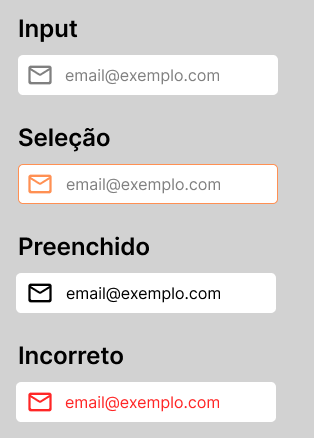
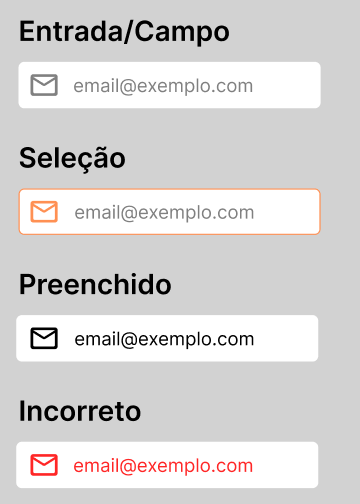
Review: correções etapas 2 e 3

diff --git a/docs/analise_requisitos/guia_estilo.md b/docs/analise_requisitos/guia_estilo.md
@@ -55,7 +55,7 @@ Figura 1 - Página inicial DetranGO (fonte: [DetranGO](https://www.detran.go.gov
 Uma das partes importantes do guia de estilo são os elementos de interface. Esses elementos são responsáveis por compor as interfaces gráficas que os usuários terão contato durante o uso do sistema. Segue abaixo cada um dos elementos trabalhados neste tópico.
 
 ### 4.1 Janelas
-Foram consideradas pelo grupo as janelas sendo todo o espaço que contempla a interface de uma das páginas do site. Para garantir a padronização dos diferentes ambientes foi pensado em um modelo simples, escalável e que facilite as atividades do usuário para orientar os designers no momento de pensar em uma interface para o sistema. O modelo feito é o apresentado na figura 2.
+Foram consideradas pelo grupo as janelas sendo todo o espaço que contempla a interface de uma das páginas do site. Para garantir a padronização dos diferentes ambientes foi pensado em um modelo simples, escalável e que facilite as atividades do usuário para orientar os designers no momento de pensar em uma interface para o sistema. O modelo feito é o apresentado na figura 2. Com as janelas apresentadas na figura 2 buscamos respeitar o principio de "Visibilidade e Reconhecimento" não atendido no site atualmente.
 <center>
 
 ![Modelo de janelas](../assets/guia_estilo/janelas.png)
@@ -65,7 +65,7 @@ Figura 2 - Modelo de janelas (fonte: autores, 2023).
 </center>
 
 ### 4.2 Tipografia
-A tipografia escolhida foi a fonte Inter. A escolha da fonte foi pensada por ter uma boa leitura, para apresentar as informações, além de ser uma fonte mais moderna para o site. Segue abaixo uma ilustração mostrando os diferentes pesos, contextos e suas aplicações da fonte escolhida, na Figura 3.
+A tipografia escolhida foi a fonte Inter. A escolha da fonte foi pensada por ter uma boa leitura, para apresentar as informações, além de ser uma fonte mais moderna para o site. Segue abaixo uma ilustração mostrando os diferentes pesos, contextos e suas aplicações da fonte escolhida, na Figura 3. Com a definição da tipografia buscamos atender ao princípio "Contéudo Relevante" pois com uma tipografia e tamanhos definidos podemos dar maior atenção aos contéudos mais importantes.
 <center>
 
 ![Tipografia utilizada](../assets/guia_estilo/fontes.png)
@@ -74,7 +74,7 @@ Figura 3 - Tipografia utilizadas(fonte: autores, 2023).
 </center>
 
 ### 4.3 Cores
-As cores são um elemento essencial no guia de estilo e são responsáveis por grande parte da mensagem comunicada pela interface ao usuário. Para a escolha das cores foi pensada em uma paleta minimalista focando em apenas 3 cores, com suas respectivas variações para garantir a adaptação em diferentes contextos do sistema. Segue abaixo a ilustração mostrando cada uma das cores definidas, na Figura 4.
+As cores são um elemento essencial no guia de estilo e são responsáveis por grande parte da mensagem comunicada pela interface ao usuário. Para a escolha das cores foi pensada em uma paleta minimalista focando em apenas 3 cores, com suas respectivas variações para garantir a adaptação em diferentes contextos do sistema. Segue abaixo a ilustração mostrando cada uma das cores definidas, na Figura 4. Com a definição das cores buscamos atender varios princípios pois elas podem ser usadas para padronização, destaque de informações e visibilidade e reconhecimento.
 <center>
 
 ![Cores escolhidas](../assets/guia_estilo/cores.png)
@@ -97,7 +97,7 @@ O cinza, uma cor neutra característica de ambientes digitais voltada para a apl
 O usuário interage com o sítio por meio de ícones, botões e formulários.
 
 ### 5.2 Seleção de um estilo
-O estilo escolhido para botões, ícones e formulários foi pensado para ser objetivo e simples, visando uma padronização em como a interface e suas interações são feitas no sistema.
+O estilo escolhido para botões, ícones e formulários foi pensado para ser objetivo e simples, visando uma padronização em como a interface e suas interações são feitas no sistema e atendendo os princípios: "Consistência e padronização", "Visibilidade e reconhecimento" e "Promoção da eficiência do usuário".
 
 ### 5.3 Aceleradores (teclas de atalho)
 No sistema existem teclas de atalho, como aquelas voltadas para as abas mais acessadas e que serão utilizadas, as abas são:
@@ -142,14 +142,14 @@ A figura 7 ilustra os ícones escolhidos para o sítio, visando incluir as açõ
 Figura 7 - Ícones (fonte: autores, 2023).
 </center>
 
-### 6.3 Entrada / *Input*
-A Figura 8 ilustra os modelos de entrada/*input* que foram escolhidos para o sistema. Além disso, os modelos quando o *input* está em modo de: seleção, preenchido ou incorreto foram considerados para a construção desses elementos.
+### 6.3 Entrada/Campo
+A Figura 8 ilustra os modelos de entrada/campos que foram escolhidos para o sistema. Além disso, os modelos quando o campo está em modo de: seleção, preenchido ou incorreto foram considerados para a construção desses elementos.
 
 <center>
 
 ![Input](../assets/guia_estilo/input.png)
 
-Figura 8 - *Input* (fonte: autores, 2023).
+Figura 8 - Entrada/Campo (fonte: autores, 2023).
 </center>
 
 ## 7. Vocabulário e Padrões
@@ -187,3 +187,4 @@ Figura 9 - Diálogo com o usuário (fonte: [DetranGO](https://www.detran.go.gov.
 | ------ | ---------- | ---------------------------------- | ------------- | ------------- |
 | `1.0`  | 09/05/2023 | Criação do documento.              | Carlos Eduardo, João Morbeck, Pedro Henrique | Pedro Muniz |
 | `1.1`  | 12/05/2023 | Adição das janelas, Figma, Vocabulário e Padrões, Elementos de interação e ação        | Carlos Eduardo, João Morbeck, Pedro Henrique | Pedro Muniz |
+| `1.2`  | 01/06/2023 | Correção de termos em ingles e adição de princípios atendidos.              | Carlos Eduardo | Amanda Noda |

diff --git a/docs/analise_requisitos/personas.md b/docs/analise_requisitos/personas.md
@@ -22,7 +22,7 @@ As personas serão definidas neste artefato com o auxílio do artefato de [perfi
 
 ## Elenco de personas
 
-Como detalhado por Courage e Baxter (2005), deve*se criar ao menos uma persona por papel de usuário, e o elenco de personas deve ter de 3 a 12 personas [1]. Também é importante para Cooper (1999, 2014) que o sistema não seja projetado para uma gama ampla de personas, mas sim para uma persona em específico [1]. Assim, este artefato detalhará 5 personas, sendo duas delas **primárias** e outras duas **secundárias** (a depender da sua importância para o direcionamento do projeto) e uma **antipersona** para quem o sistema não é direcionado.
+Como detalhado por Courage e Baxter (2005), deve*se criar ao menos uma persona por papel de usuário, e o elenco de personas deve ter de 3 a 12 personas [1]. Também é importante para Cooper (1999, 2014) que o sistema não seja projetado para uma gama ampla de personas, mas sim para uma persona em específico [1]. Assim, este artefato detalhará 5 personas, sendo duas delas **primárias** e outras duas **secundárias** (a depender da sua importância para o direcionamento do projeto) e uma **antipersona** para quem o sistema não é direcionado. Foram utilizadas 5 personas por termos muitas atividades no site e precisarmos direcionar nosso foco nas principais, além de ser uma quantidade ideal para criação de cenarios.
 
 ## Personas primárias
 
@@ -161,3 +161,4 @@ Como detalhado por Courage e Baxter (2005), deve*se criar ao menos uma persona p
 | `1.0`  | 05/05/23 | Criação do documento e adição do conteúdo | João M. e Felipe M. | Carlos E.   |
 | `1.1`  | 06/05/23 | Criação de personas secundárias | João M. e Felipe M. | Carlos E.   |
 | `1.2`  | 07/05/23 | Criação de personas primárias e antipersona | João M. e Felipe M. | Carlos E.   |
+| `1.3`  | 01/06/23 | Adição explicação número de personas | Carlos E. | Amanda Noda |
